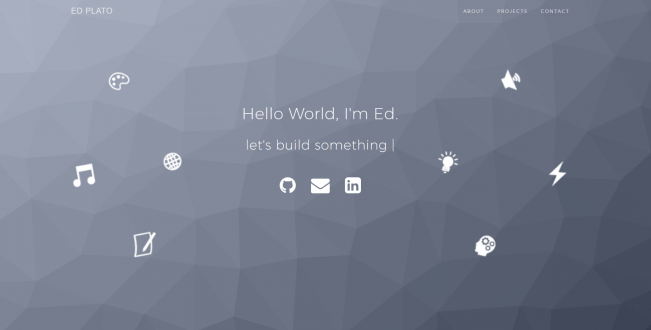
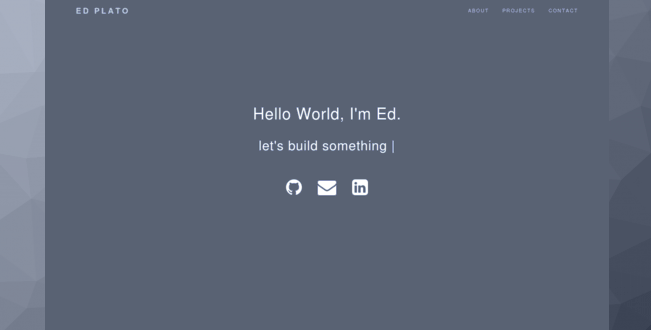
style change, edit demoDesign page

diff --git a/demoDesign/css/app.css b/demoDesign/css/app.css
@@ -1,7 +1,7 @@
 #content {
   text-align: center;
   padding-top: 5%;
-  text-shadow: 0px 1px 1px rgba(0, 0, 0, 0.4), 0px 3px 2px rgba(0, 0, 0, 0.1);
+  text-shadow: 1px 1px 1px rgba(255, 255, 255, 0.4), 1px 3px 2px rgba(0, 0, 0, 0.1);
 }
 .container {
   padding-right: 0px
@@ -12,9 +12,10 @@
   margin-right: 0;
 }
 #spacedBrand {
-  letter-spacing: 0.1em;
+  letter-spacing: 0.3em;
   color: #1B3655;
   font-weight: 800;
+  text-shadow: 1px 1px 1px rgba(255, 255, 255, 0.3);
 }
 #spacedBrand:hover {
   color: white;
@@ -27,7 +28,7 @@
   padding-top: 50px;
   padding-bottom: 40px;
   width: 100%;
-  background: url("../images/tdesign1.png") center no-repeat;
+  background: url("../images/servicesBackground.png") center no-repeat;
   background-size: cover;
   background-attachment: fixed;
 }
@@ -37,12 +38,13 @@
   width: 100%;
   max-width: 100%;
   padding-right: 0px;
+  padding-left: 0px;
   margin-right: 0px;
 }
 #eap {
   padding-left: 0;
   padding-right: 0;
-  background: linear-gradient( rgba(0, 0, 0, 0.1), rgba(0, 0, 0, 0.2)), url("../images/viscosity_180840.png");
+  background: linear-gradient( rgba(0, 0, 0, 0.1), rgba(0, 0, 0, 0.2)), url("../images/landingArea.png");
   background-size: cover;
   background-position: center;
   color: #1B3655;
@@ -54,7 +56,7 @@
 }
 #hamburger {
   background: white;
-  margin-right: 0.5em;
+  margin-right: 0.3em;
 }
 .navbar-default .navbar-nav>.active>a, .navbar-default .navbar-nav>.active>a:hover, .navbar-default .navbar-nav>.active>a:focus {
   background-color: white;
@@ -62,18 +64,17 @@
 .navbar-default .navbar-brand:hover, .navbar-default .navbar-brand:focus {
   color: #f9cf00;
 }
-
 .navbar-default .navbar-collapse, .navbar-default .navbar-form {
   border: 0px;
 }
 .navbar-default .navbar-nav>li>a {
+  text-align: center;
   color: white;
 }
 .navbar-default .navbar-nav>li>a:hover {
   color: #f9cf00;
   text-shadow: 0px 1px 2px rgba(249, 207, 0, 0.3);  
 }
-
 .navbar-default .navbar-brand {
   color: white;
 }
@@ -86,7 +87,7 @@
 .btn-lg:hover, .btn-group-lg>.btn {
   border: 1px transparent solid;
   opacity: 1.0;
-  background: #1B3655;
+  background: #4484ce;
   color: white;
   outline: none;
 }
@@ -143,13 +144,10 @@
 }
 
 #rightArt {
-  /*height: 720px;*/
   max-height: 770px;
   height: 110%;
-  /*width: 85%;*/
   float: right;
   margin-right: 0;
-  /*bottom: 0;*/
   vertical-align: top;
 }
 #aboutUsRightArt {
@@ -158,10 +156,8 @@
 }
 
 #aboutUs {
-  /*padding-top: 20px;*/
   padding-right: 0px;
   margin-right: 0px;
-  /*margin-bottom: 20px;*/
   max-width: 100%;
 }
 
@@ -176,12 +172,12 @@ body {
   scroll-behavior: smooth;
 }
 h1 {
-  font-family: 'Oswald', sans-serif;
+  font-family: 'Open Sans', sans-serif;
   letter-spacing: 0.1em;
 
   padding-top: .5em;
-  font-weight: 700;
-  font-size: 4.5em;
+  font-weight: 800;
+  font-size: 3.8em;
 }
 html {
   scroll-behavior: smooth;
@@ -209,9 +205,9 @@ input {
 
 .btn-lg {
   margin-top: 8em;
-  -webkit-box-shadow: -3px 3px 5px 0px rgba(0,0,0,0.23);
-  -moz-box-shadow: -3px 3px 5px 0px rgba(0,0,0,0.23);
-  box-shadow: -3px 3px 5px 0px rgba(0,0,0,0.23);
+  -webkit-box-shadow: -3px 3px 5px 0px rgba(0,0,0,0.1);
+  -moz-box-shadow: -3px 3px 5px 0px rgba(0,0,0,0.1);
+  box-shadow: -3px 3px 5px 0px rgba(0,0,0,0.1);
 }
 
 #contactPlease {

diff --git a/index.html b/index.html
@@ -72,13 +72,15 @@
     <div class="col-md-2"></div>
     <div class="col-md-8">
       <h2 class="titles">About Me</h2>
-      <p>I have consulted on scientific investigations to help clean up the environment, literally grew in the fast-paced field of commercial horticulture, and even got paid to wear a tuxedo as a fine wine connoisseur.<br>
+      <p>I have worked in teams on scientific investigations to help clean up the environment, literally grew in the fast-paced field of commercial horticulture, and now have focused all of my efforts on programming.<br>
       <br>
       <br>
-      Over the past year, I've been living everything web development. My main focus has been front-end development using Javascript. I've gained skills in HTML(5), CSS(3), jQuery, Bootstrap, React, Node.js, Express.js, Git, Command Line, and UI/UX Design along the way.<br>
+      Over the past year, I've been living everything web development. My main focus is on front-end development, however I have been spending a lot of my recent time in Node. I've gained skills developing with Javascript, HTML(5), CSS(3), jQuery, Bootstrap, NPM, Node.js, Express.js, mLab MongoDB, React, Git, Heroku, Command Line, Photoshop, and Responsive UI/UX Design.<br>
       <br>
       <br>
-      I continue to explore this world of web development to build beautiful applications.</p>
+      Think we should work together?
+      <br>
+      <h3>Contact me <span><a id="here" href="mailto:edplatomail@gmail.com">here</a></span></h3></p>
     </div>
     <div class="col-md-2"></div>
   </div>
@@ -125,9 +127,9 @@
         <li>
           <a href="https://github.com/edplato" target="_blank">Github</a>
         </li>
-<!--         <li>
-          <a href="https://twitter.com/eaplato" target="_blank">Twitter</a>
-        </li> -->
+        <li>
+          <a href="mailto:edplatomail@gmail.com" target="_blank">Contact</a>
+        </li>
         <li>
           <a href="https://linkedin.com/in/edplato" target="_blank">LinkedIn</a>
         </li>

diff --git a/demoDesign/index.html b/demoDesign/index.html
@@ -13,7 +13,6 @@
 <body data-offset="100" data-spy="scroll" data-target=".navbar">
   <div id="section1"></div>
   <nav class="navbar navbar-default navbar-fixed-top" id="navbar-main">
-    <!-- <div class="container"> -->
       <div class="navbar-header">
         <button aria-expanded="false" class="navbar-toggle collapsed" data-target="#bs-example-navbar-collapse-1" data-toggle="collapse" id="hamburger" type="button"><span class="sr-only">Toggle navigation</span> <span class="icon-bar"></span> <span class="icon-bar"></span> <span class="icon-bar"></span></button> <a class="navbar-brand" href="#section1" id="spacedBrand">Demo Design</a>
       </div>
@@ -30,7 +29,6 @@
           </li>
         </ul>
       </div>
-    <!-- </div> -->
   </nav>
   <div class="container" id="eap">
     <div class="row">
@@ -156,7 +154,7 @@
     </footer>
       </div>
       <div class="col-lg-6" id="aboutUsRightArt">
-        <div class="hidden-md hidden-sm hidden-xs"><img id="rightArt" src="images/viscosity_180839c.png"></div>
+        <div class="hidden-md hidden-sm hidden-xs"><img id="rightArt" src="images/aboutUsRight.png"></div>
 
       </div>
 

diff --git a/css/styles.css b/css/styles.css
@@ -148,6 +148,9 @@ header {
 #projects {
   margin-top: 0;
 }
+#here {
+  color: blue;
+}
 @media (max-width: 995px) {
   #intro-bg {
     padding-left: 0px;
